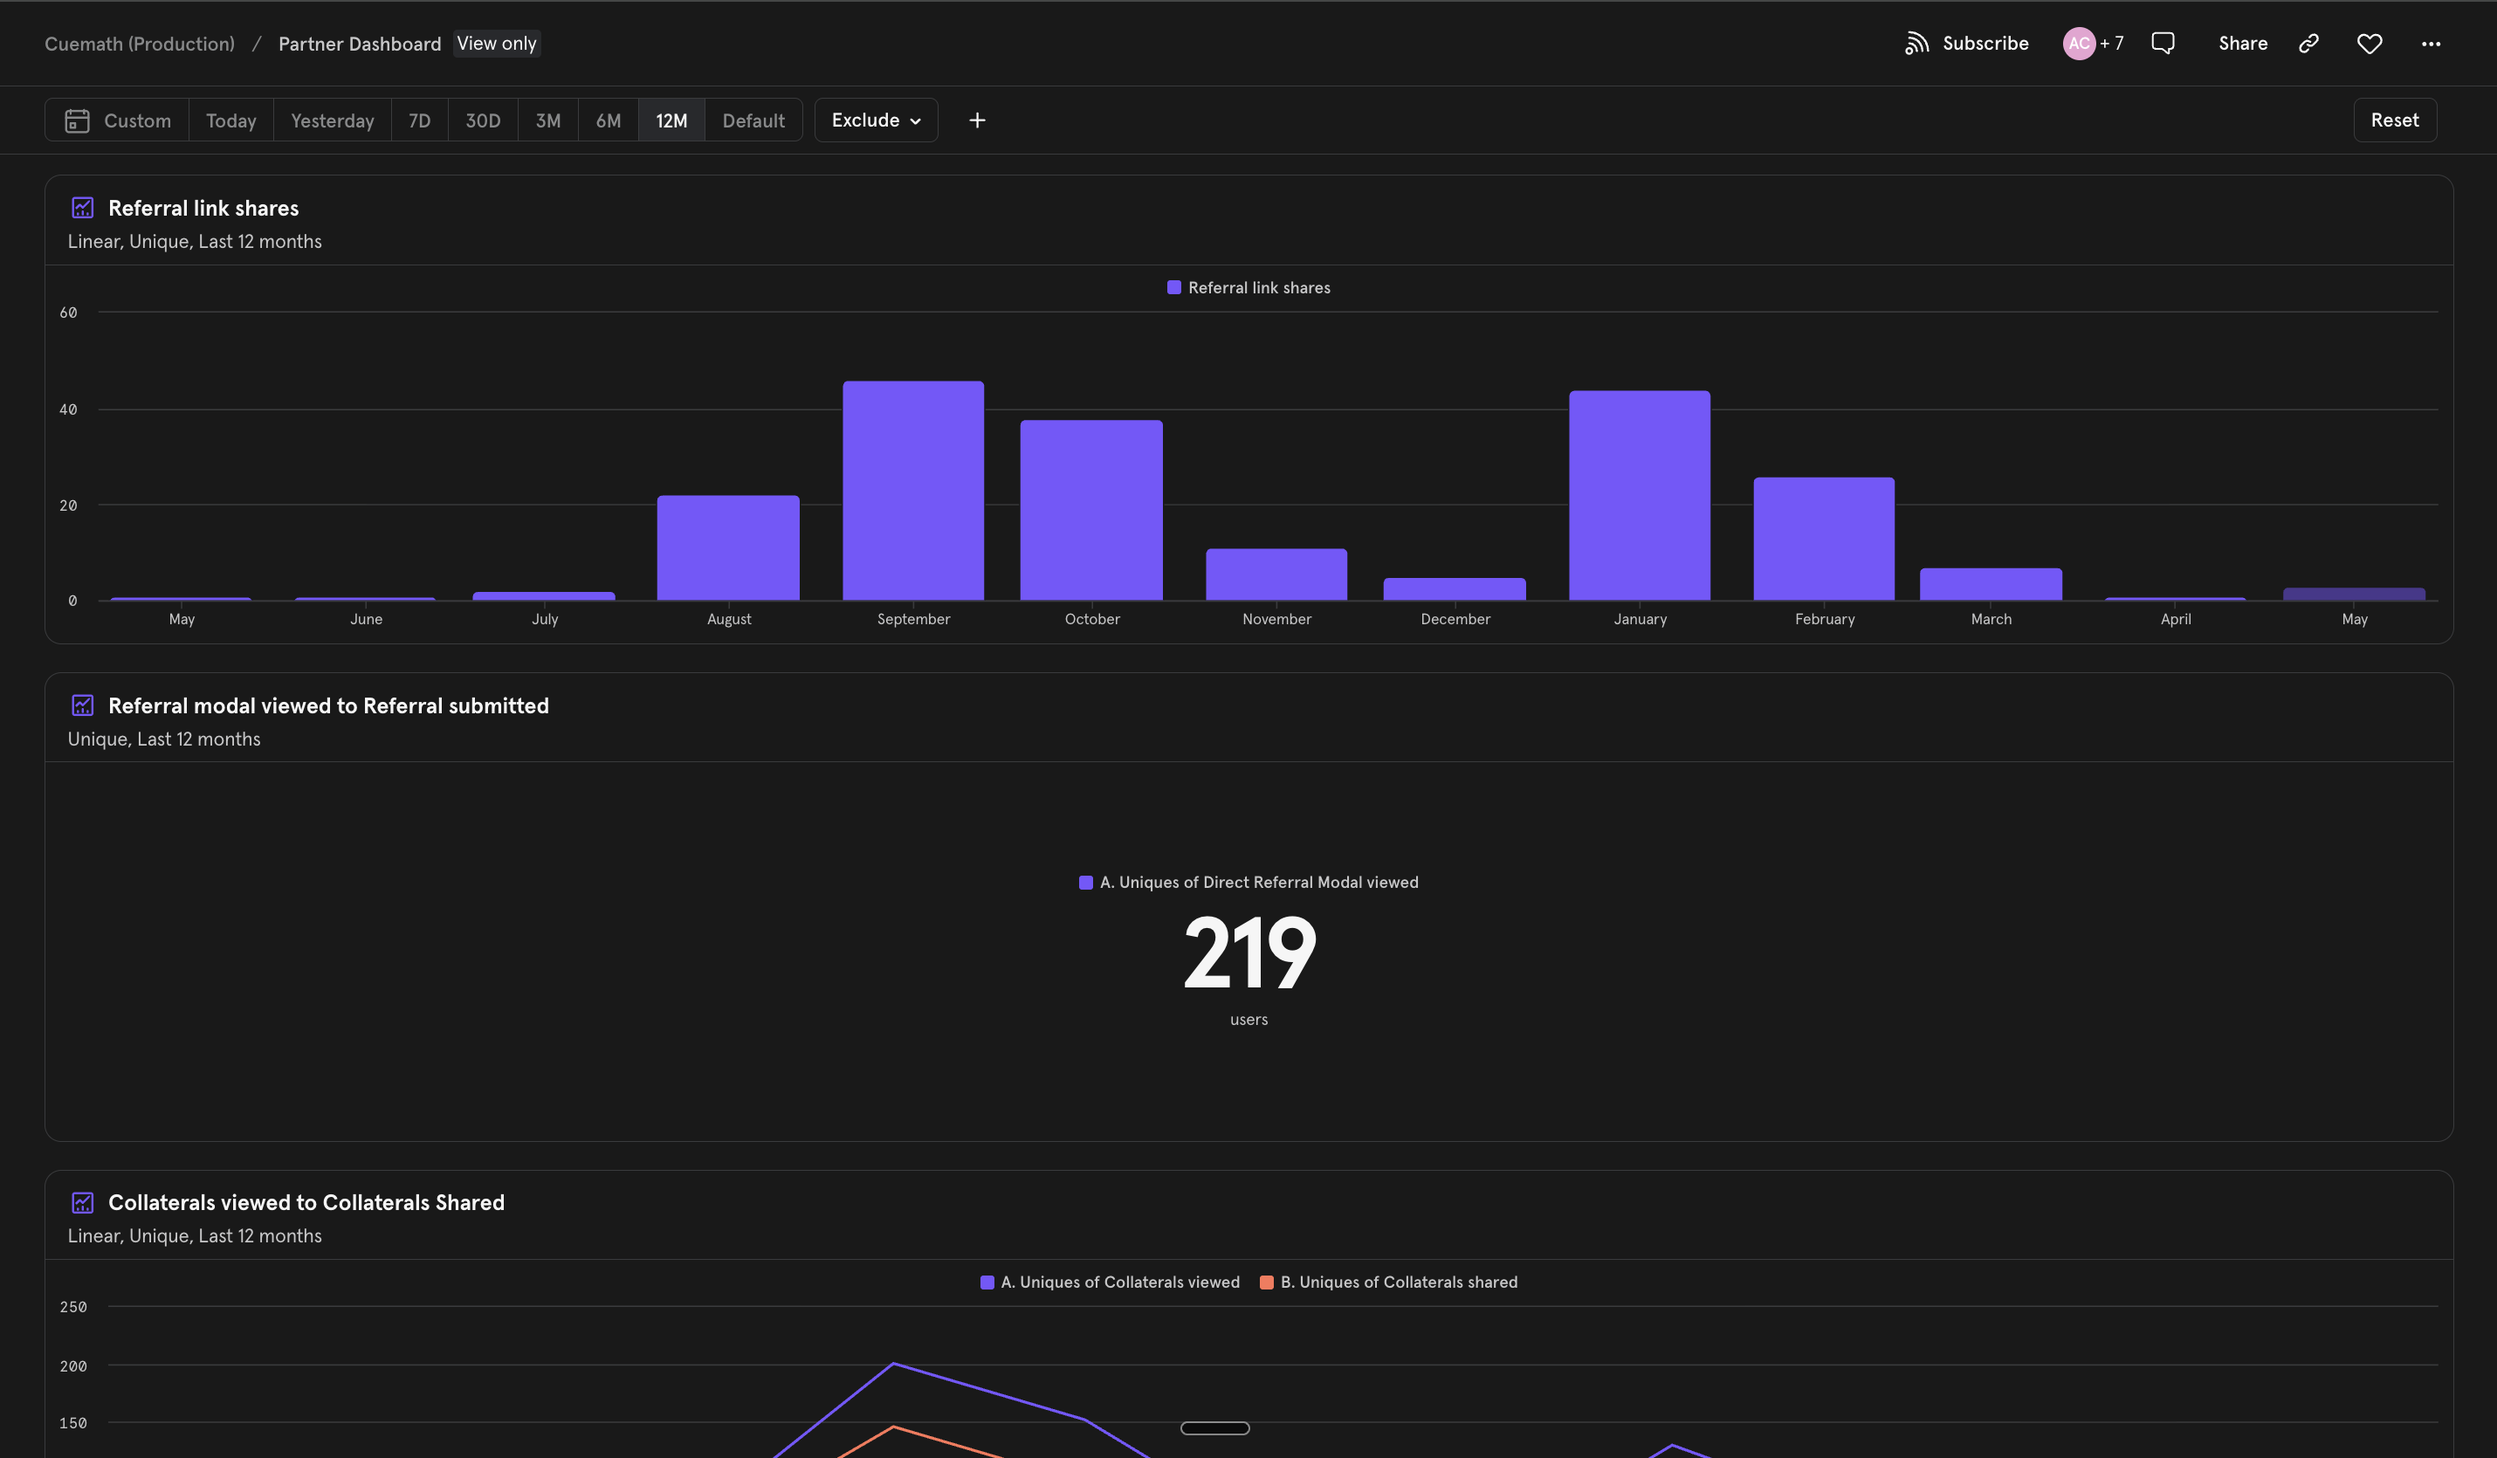
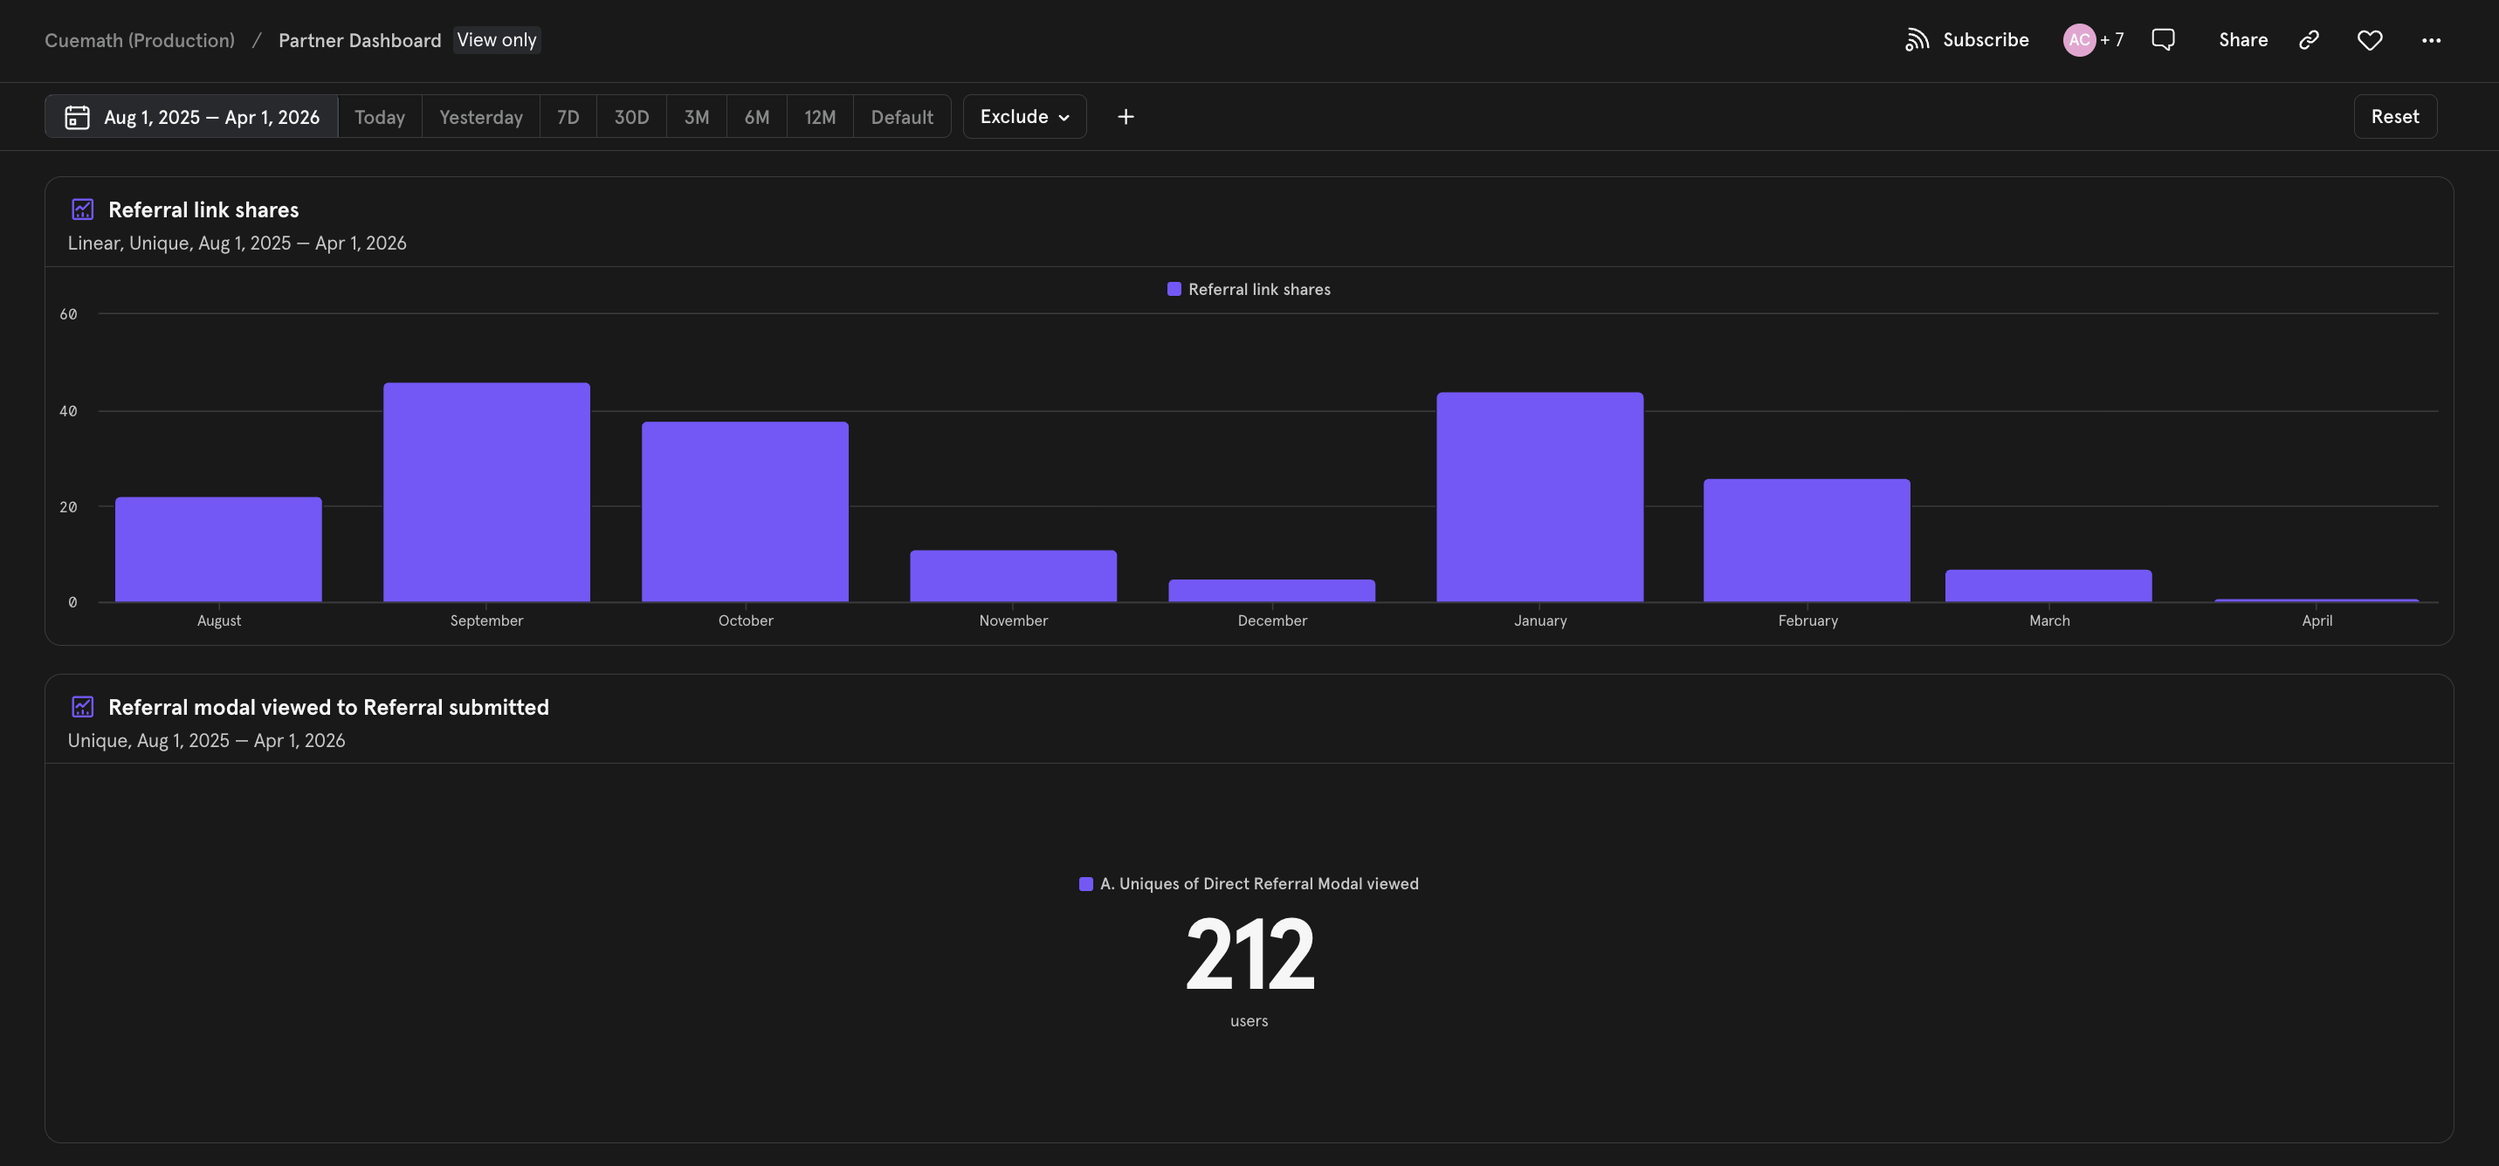
Affiliate Impact: refresh all metrics for 9-month post-launch window
Pulled fresh Mixpanel data for Aug 1 2025 → Apr 1 2026 (programme launch
through Aasif's departure from Cuemath). All 8 dashboard screenshots
re-captured with the new date filter.

Cover outcome card:
- "12 mo / Sustained engagement post-launch" → "9 mo / Sustained engagement
  post-launch — DAU peaks of ~750" (window now matches actual data filter)

Impact section refresh:
- Hero stat description: now specifies window — "9 months post-launch
  (Aug 2025 – Apr 2026), tracked via the Partner Dashboard in Mixpanel"
- Stat 1: 219 → 212 (referral modal viewed, 9-month filter)
- Stat 2: ~750 peak DAU (unchanged); description updated to "9 months"
- Stat 3: ~135 → ~60 (switched from "registration link shares" to
  "referral link shares" — more on-message for affiliate behavior;
  October 2025 was the peak month)
- Narrative paragraph: added October peak + top-affiliate (25 referrals)
  beats as supporting context

Defense pack memory: updated to reflect 9-month window, new stat values,
and the rationale for the referral-vs-registration link share swap.

diff --git a/work/affiliate-partnership/index.html b/work/affiliate-partnership/index.html
@@ -88,7 +88,7 @@
         <p class="cover-outcome-desc">Affiliates onboarded across the USA.</p>
       </div>
       <div>
-        <p class="cover-outcome-num">12 mo</p>
+        <p class="cover-outcome-num">9 mo</p>
         <p class="cover-outcome-desc">Sustained engagement post-launch — DAU peaks of ~750.</p>
       </div>
     </div>
@@ -299,28 +299,28 @@
     <div class="cs-stat-hero">
       <p class="cs-stat-hero-label">Affiliates onboarded</p>
       <p class="cs-stat-hero-number">138</p>
-      <p class="cs-stat-hero-desc">Community educators activated across the USA — verified via the Partner Dashboard in Mixpanel.</p>
+      <p class="cs-stat-hero-desc">Community educators activated across the USA — 9 months post-launch (Aug 2025 – Apr 2026), tracked via the Partner Dashboard in Mixpanel.</p>
     </div>
     <div class="outcome-stats">
       <div class="stat">
         <p class="stat-label">Referral modal explored</p>
-        <p class="stat-number">219</p>
+        <p class="stat-number">212</p>
         <p class="stat-desc">Unique affiliates viewed the Direct Referral Modal — engagement with the sharing flow Decision 3 was built for.</p>
       </div>
       <div class="stat">
         <p class="stat-label">Peak DAU</p>
         <p class="stat-number">~750</p>
-        <p class="stat-desc">Daily active users at programme peak. Engagement sustained across 12 months — affiliates kept coming back.</p>
+        <p class="stat-desc">Daily active users at programme peak. Engagement sustained across the 9 months — affiliates kept coming back.</p>
       </div>
       <div class="stat">
-        <p class="stat-label">Peak monthly link shares</p>
-        <p class="stat-number">~135</p>
-        <p class="stat-desc">Referral link shares in peak months. Activation wasn't just sign-up — affiliates actively shared.</p>
+        <p class="stat-label">Peak monthly referral shares</p>
+        <p class="stat-number">~60</p>
+        <p class="stat-desc">Affiliate referral link shares in the peak month (October 2025). Activation wasn't just sign-up — affiliates actively shared.</p>
       </div>
     </div>
   </div>
 
-  <p>The Partner Dashboard I instrumented tracked activation and engagement: sign-up to login, referral modal exploration, link shares, collateral views and shares. Downstream conversion attribution — referrals to MathFest registrations to paid enrollments — lived in a separate business funnel I didn't own. Closing that loop is the v2 I'd build.</p>
+  <p>The Partner Dashboard I instrumented tracked activation and engagement: sign-up to login, referral modal exploration, link shares, collateral views and shares. Activity peaked in October 2025 with sustained tail through early 2026; across the 9 months, the top affiliate generated 25 referrals on their own. Downstream conversion attribution — referrals to MathFest registrations to paid enrollments — lived in a separate business funnel I didn't own. Closing that loop is the v2 I'd build.</p>
 
   <img src="../../assets/Case studies/Affiliate Partnership/Affiliate dashboard.jpg" loading="lazy" decoding="async" alt="Affiliate dashboard — showing referral link, conversion tracking, earnings, and payout history" class="cs-img">
   <p class="caption">The affiliate dashboard — referral link, stats, earnings, and payout history all visible. Designed as the engagement surface that earns the next login.</p>
